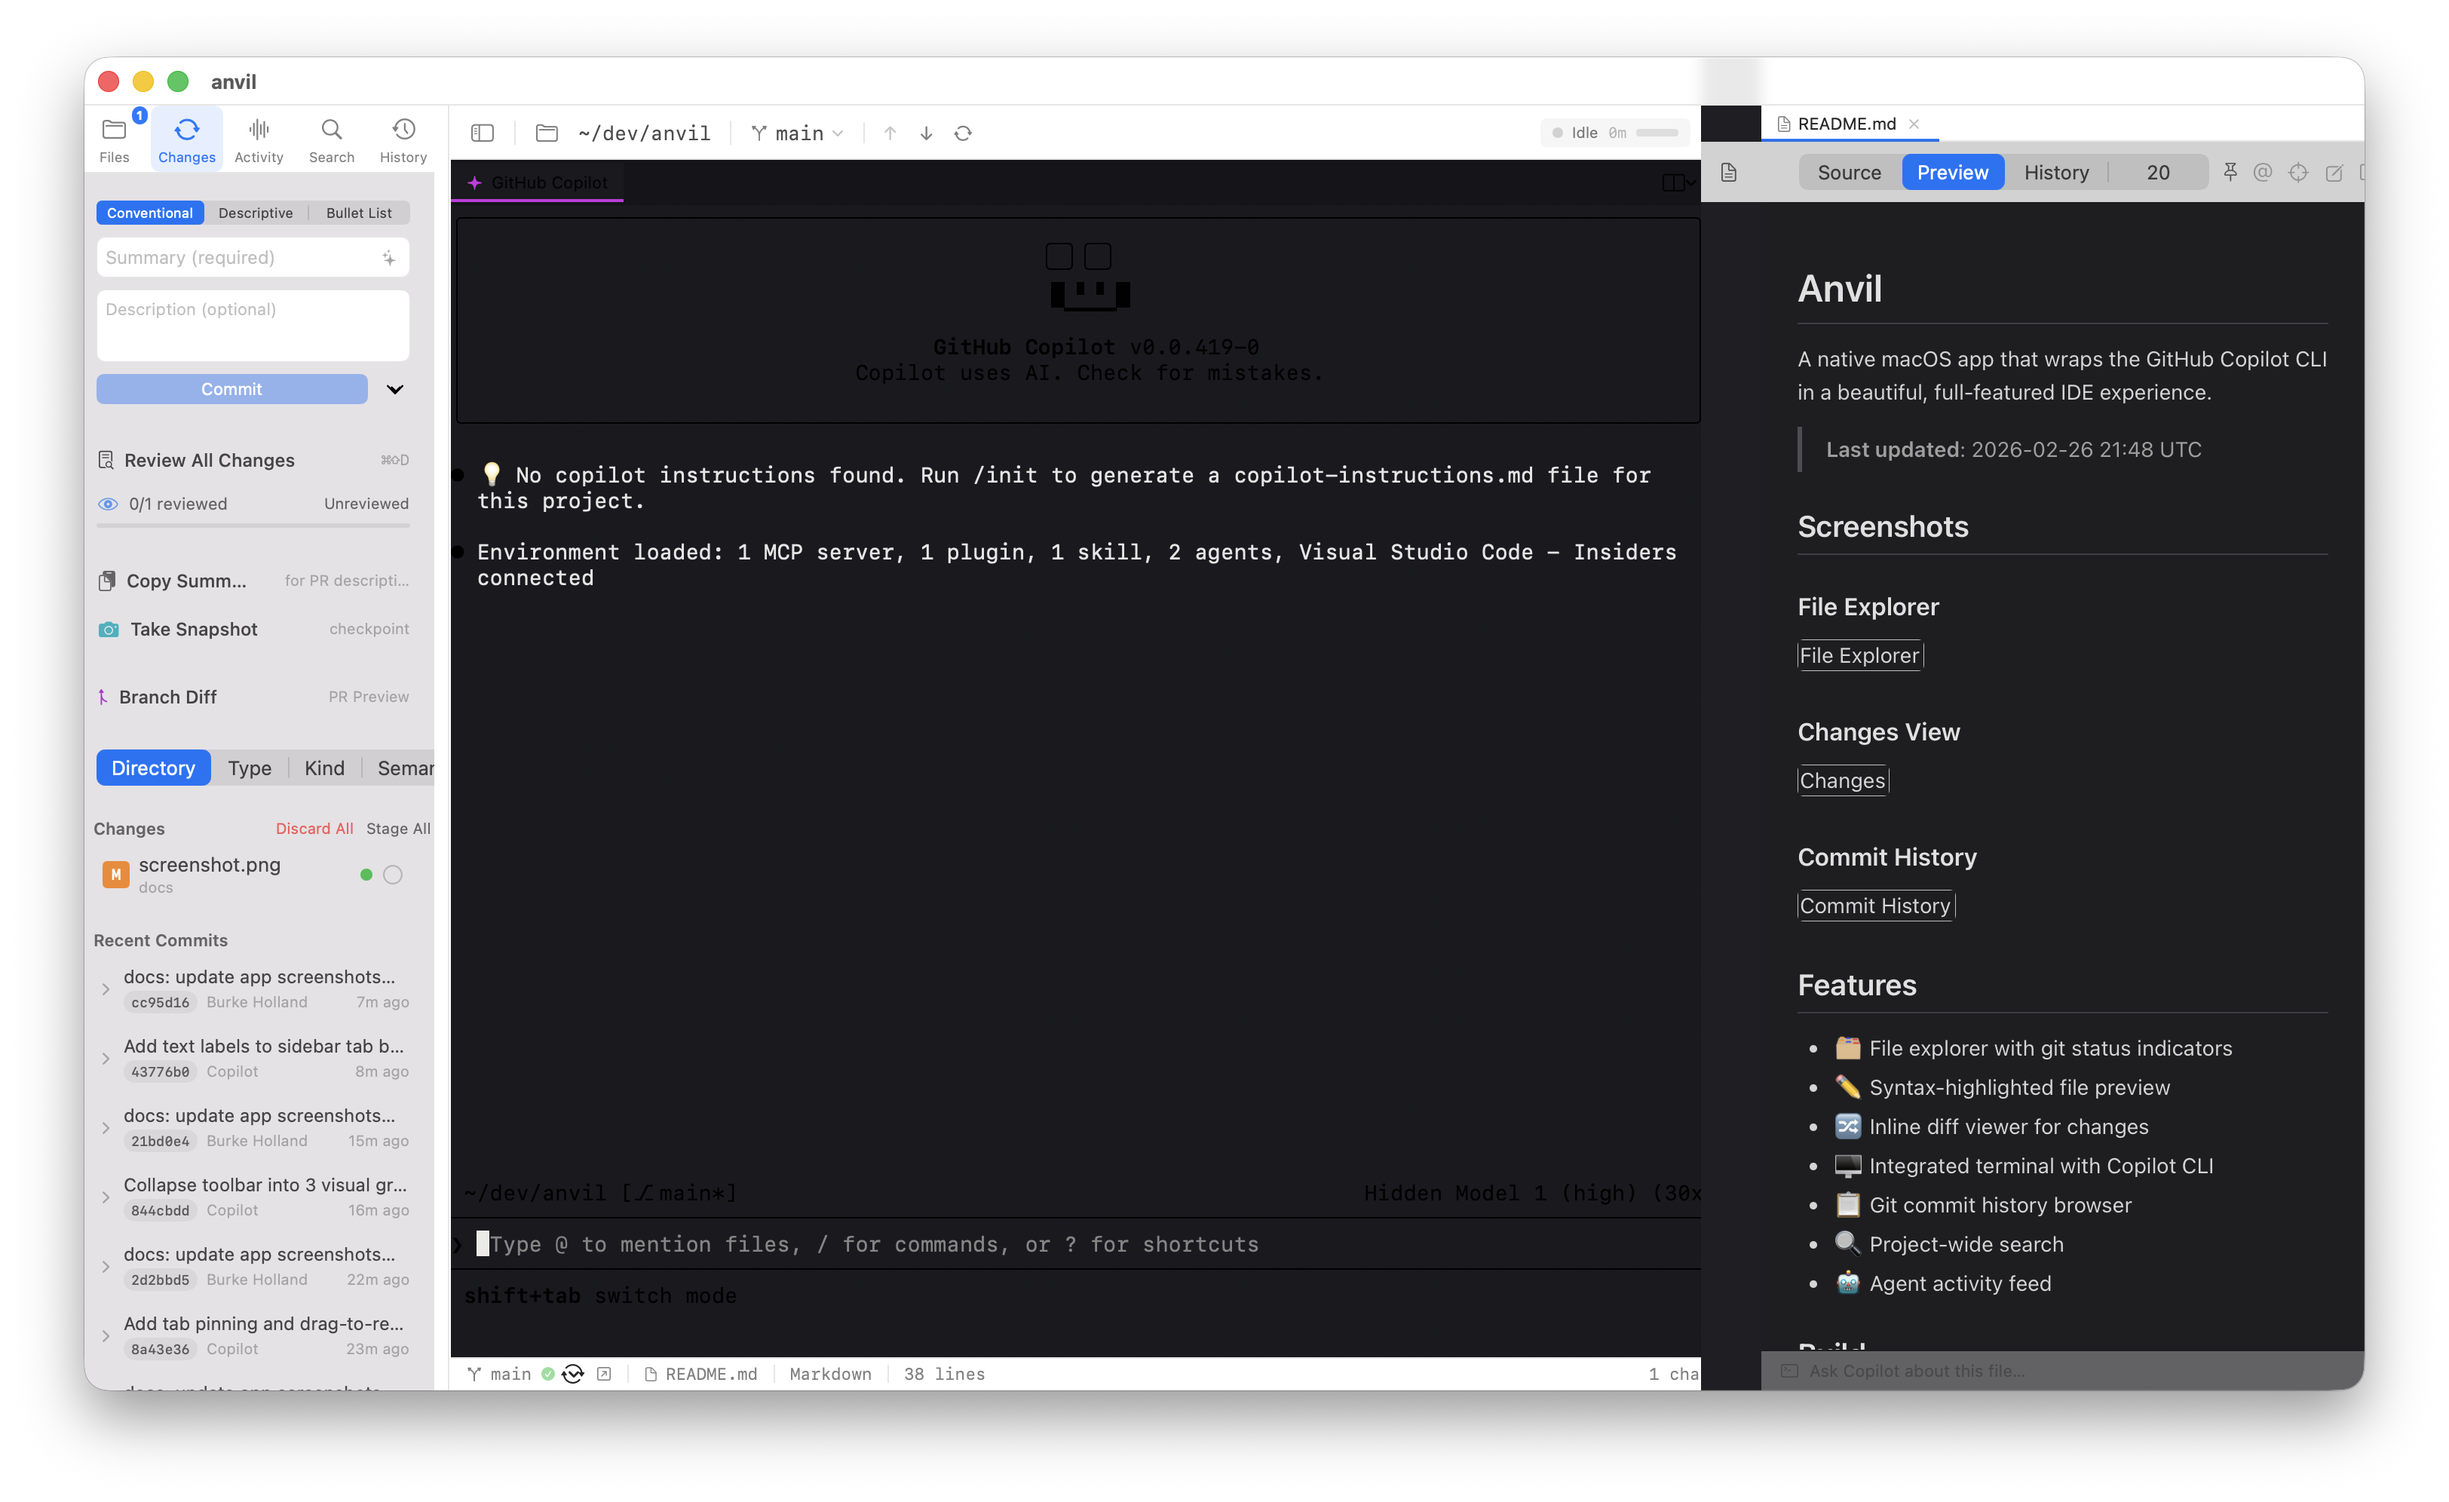
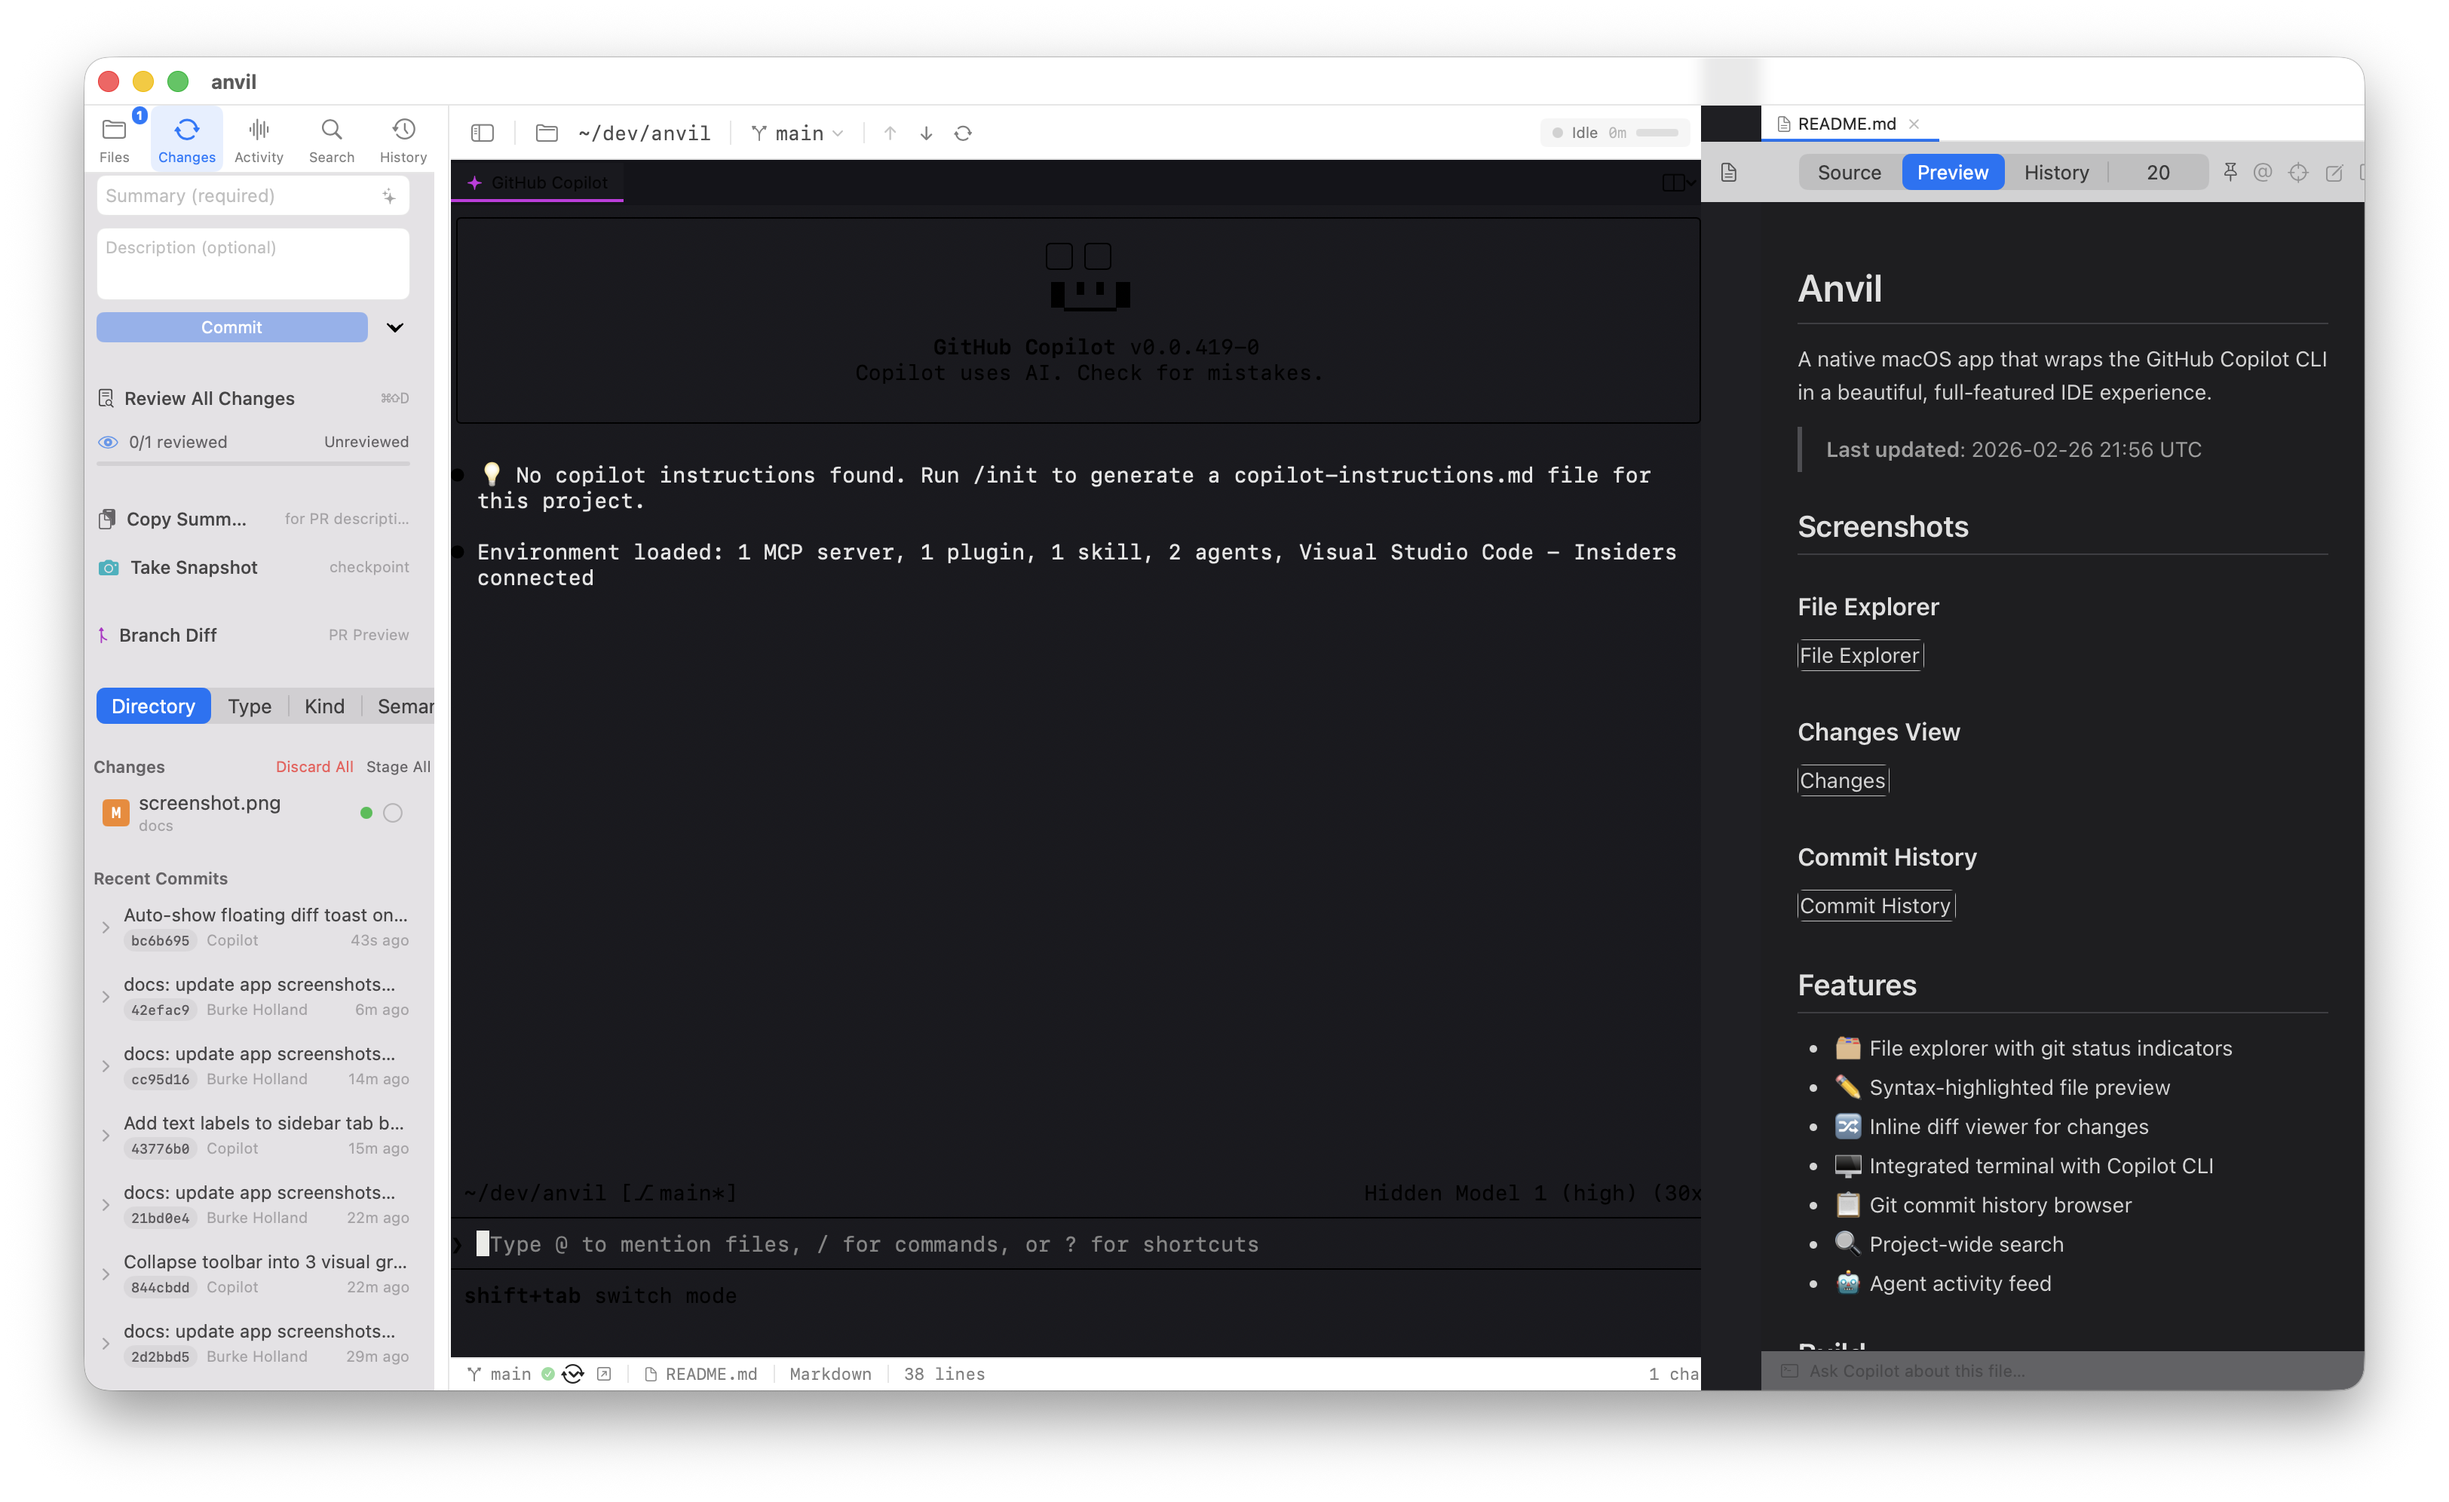
docs: update app screenshots and README (2026-02-26 22:03 UTC)

Changed region(s): [[0.0311, 0.0934, 0.1866, 0.9026], [0.1244, 0.3735, 0.1555, 0.4046]]

diff --git a/README.md b/README.md
@@ -2,7 +2,7 @@
 
 A native macOS app that wraps the GitHub Copilot CLI in a beautiful, full-featured IDE experience.
 
-> **Last updated**: 2026-02-26 21:56 UTC
+> **Last updated**: 2026-02-26 22:03 UTC
 
 ## Screenshots
 
